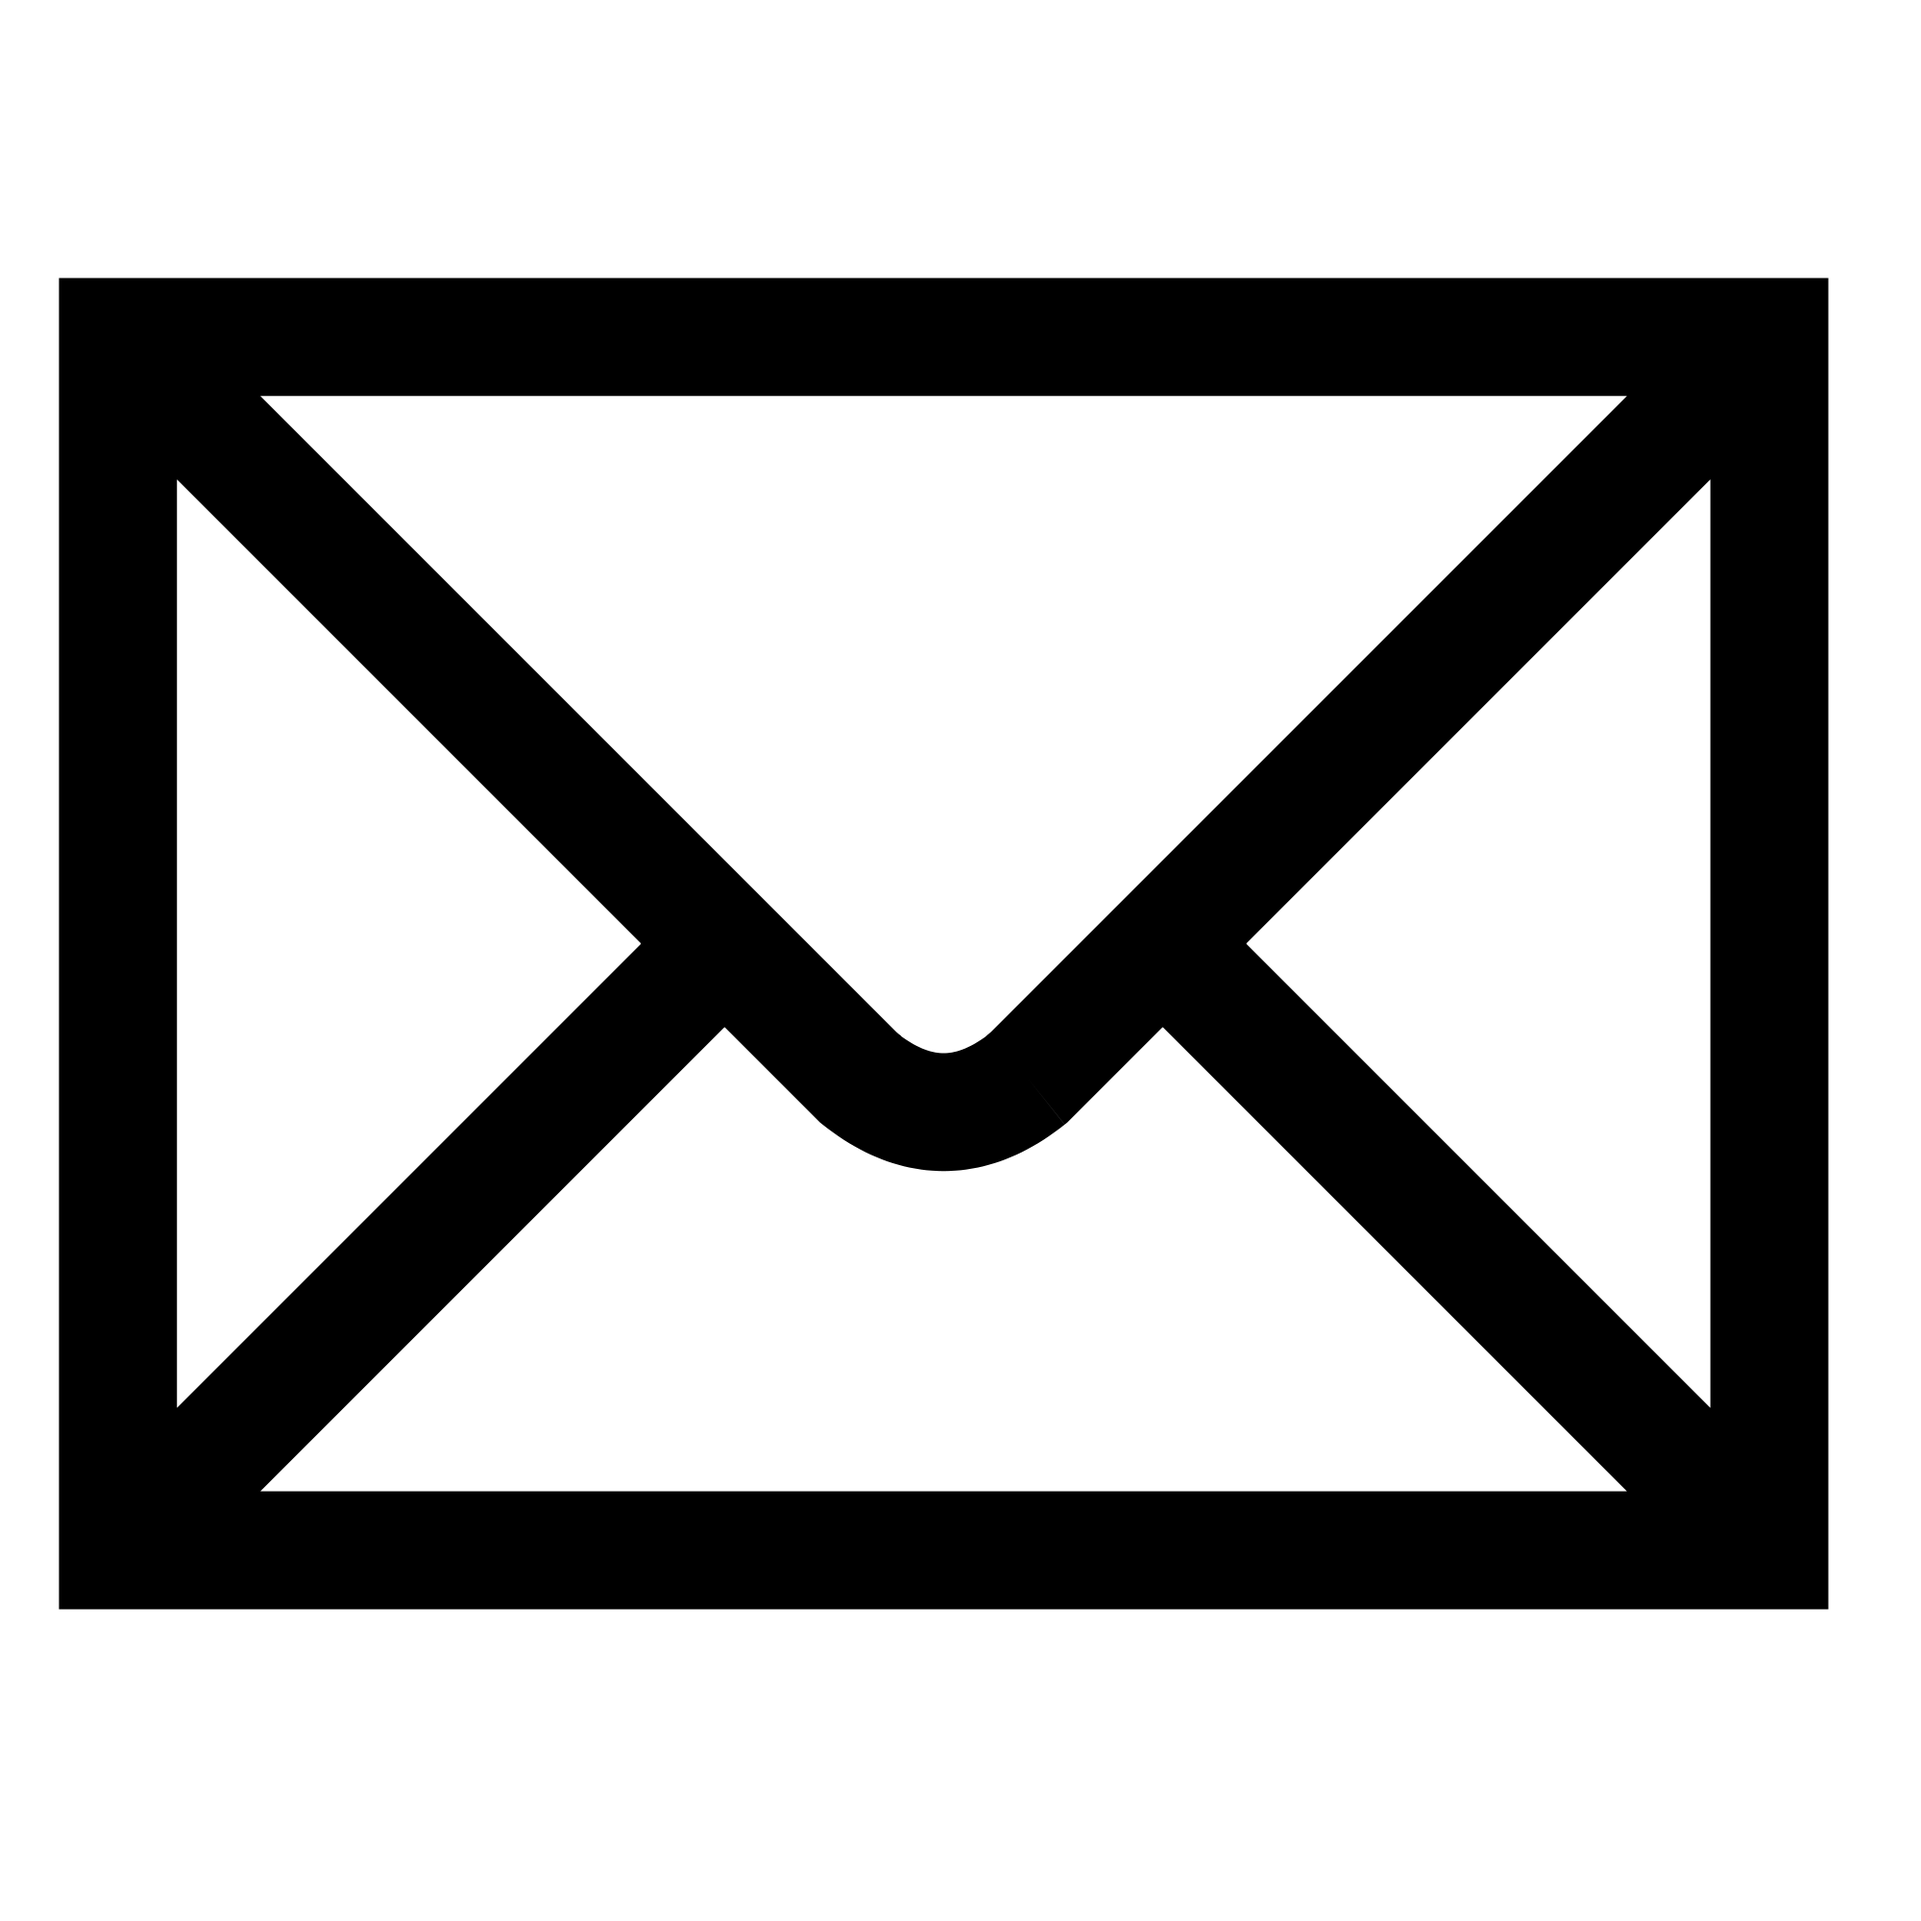
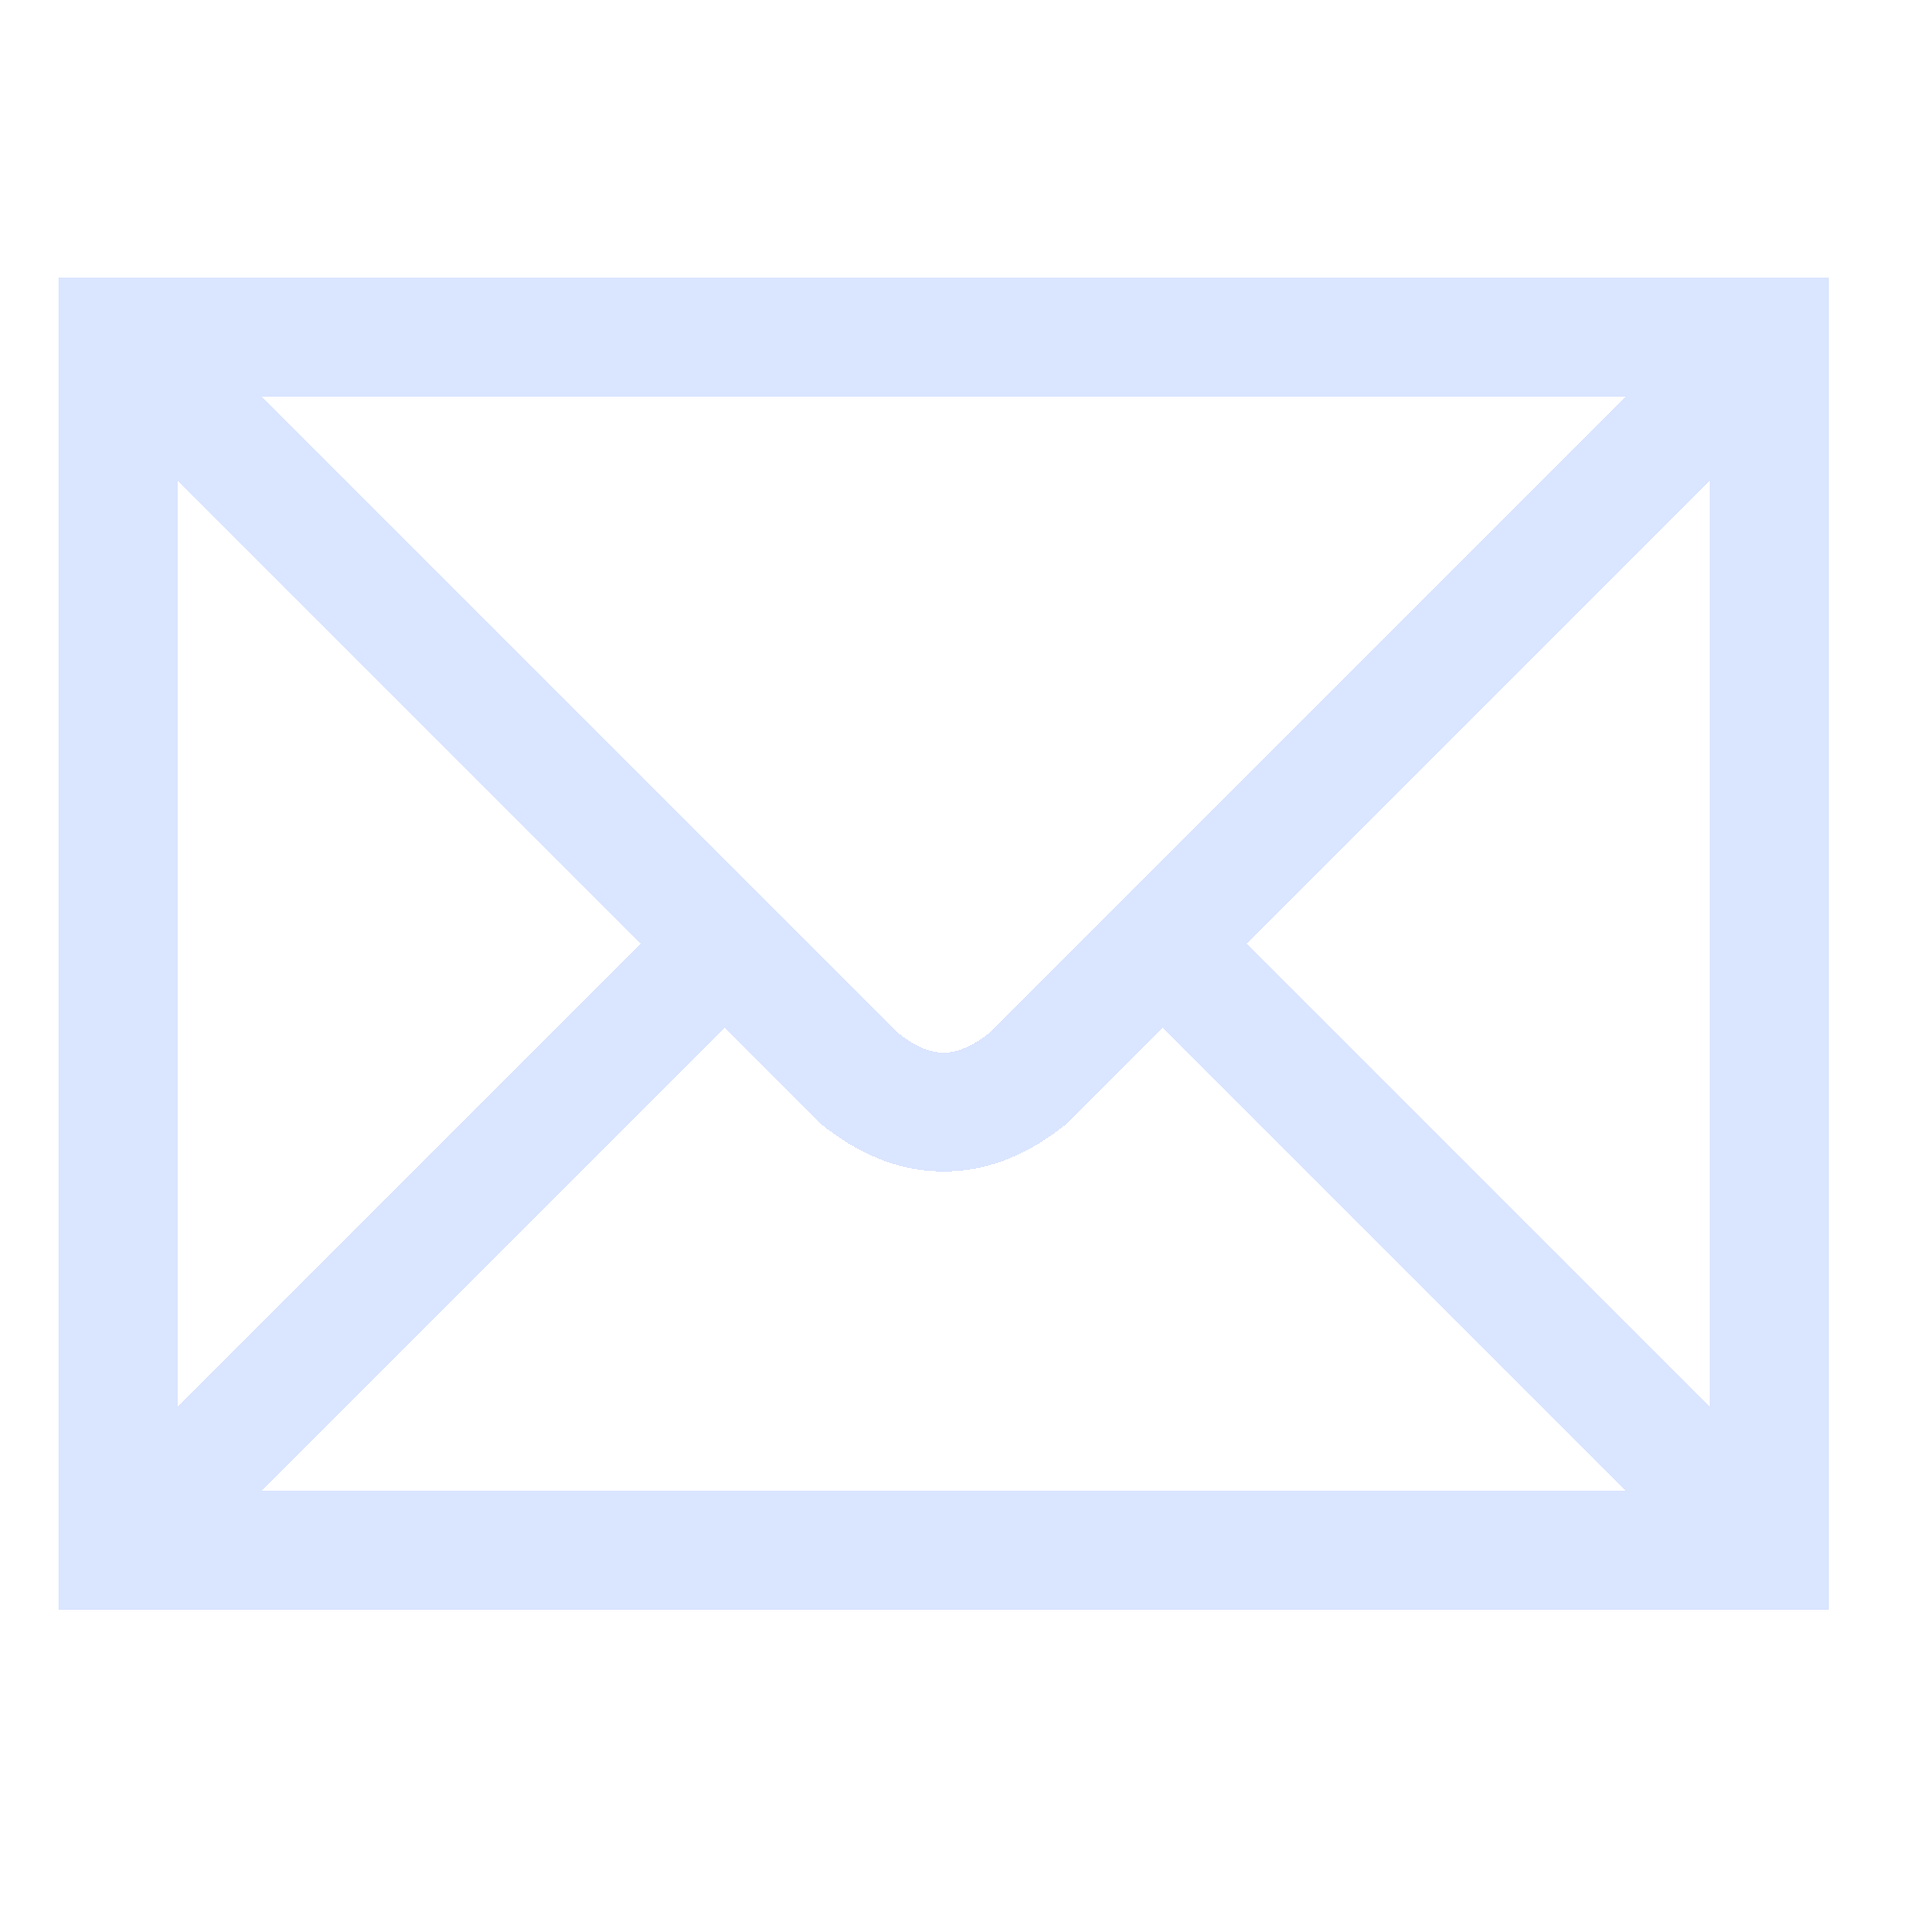
Final - 1.0.3 	modified:   portfolio/css/style.css 	modified:   portfolio/css/style.scss 	modified:   portfolio/images/email.png 	modified:   portfolio/images/telephone.png

Changed region(s): [[0.031, 0.124, 0.961, 0.837]]

diff --git a/portfolio/css/style.css b/portfolio/css/style.css
@@ -269,7 +269,6 @@ footer ul li {
 footer ul li img {
   height: 2em;
   width: 2em;
-  filter: invert(86%) sepia(4%) saturate(5785%) hue-rotate(190deg) brightness(99%) contrast(108%);
 }
 footer ul li p {
   transform: translateY(25%);

diff --git a/portfolio/css/style.scss b/portfolio/css/style.scss
@@ -278,7 +278,6 @@ footer{
 			img{
 				height: 2em;
 				width: 2em;
-				filter: invert(86%) sepia(4%) saturate(5785%) hue-rotate(190deg) brightness(99%) contrast(108%);
 			}
 			p{
 				transform: translateY(25%);
